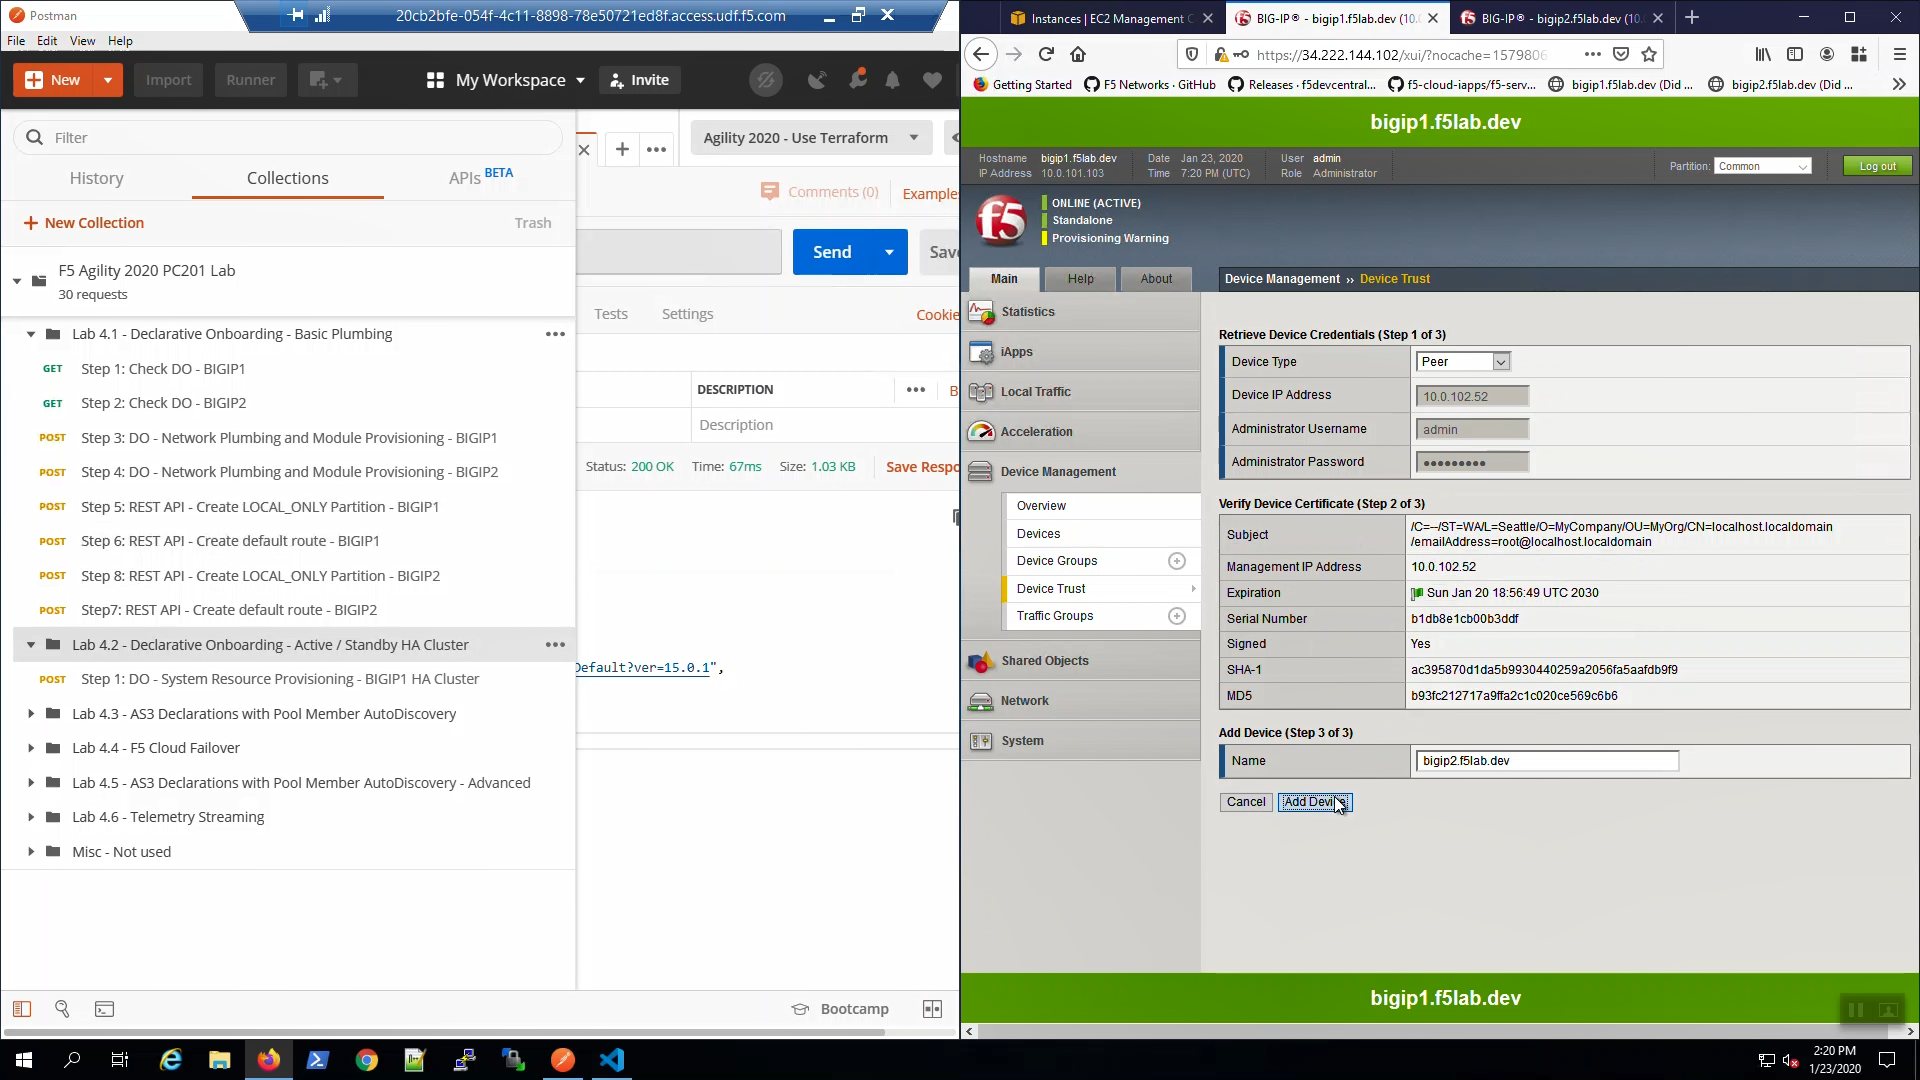
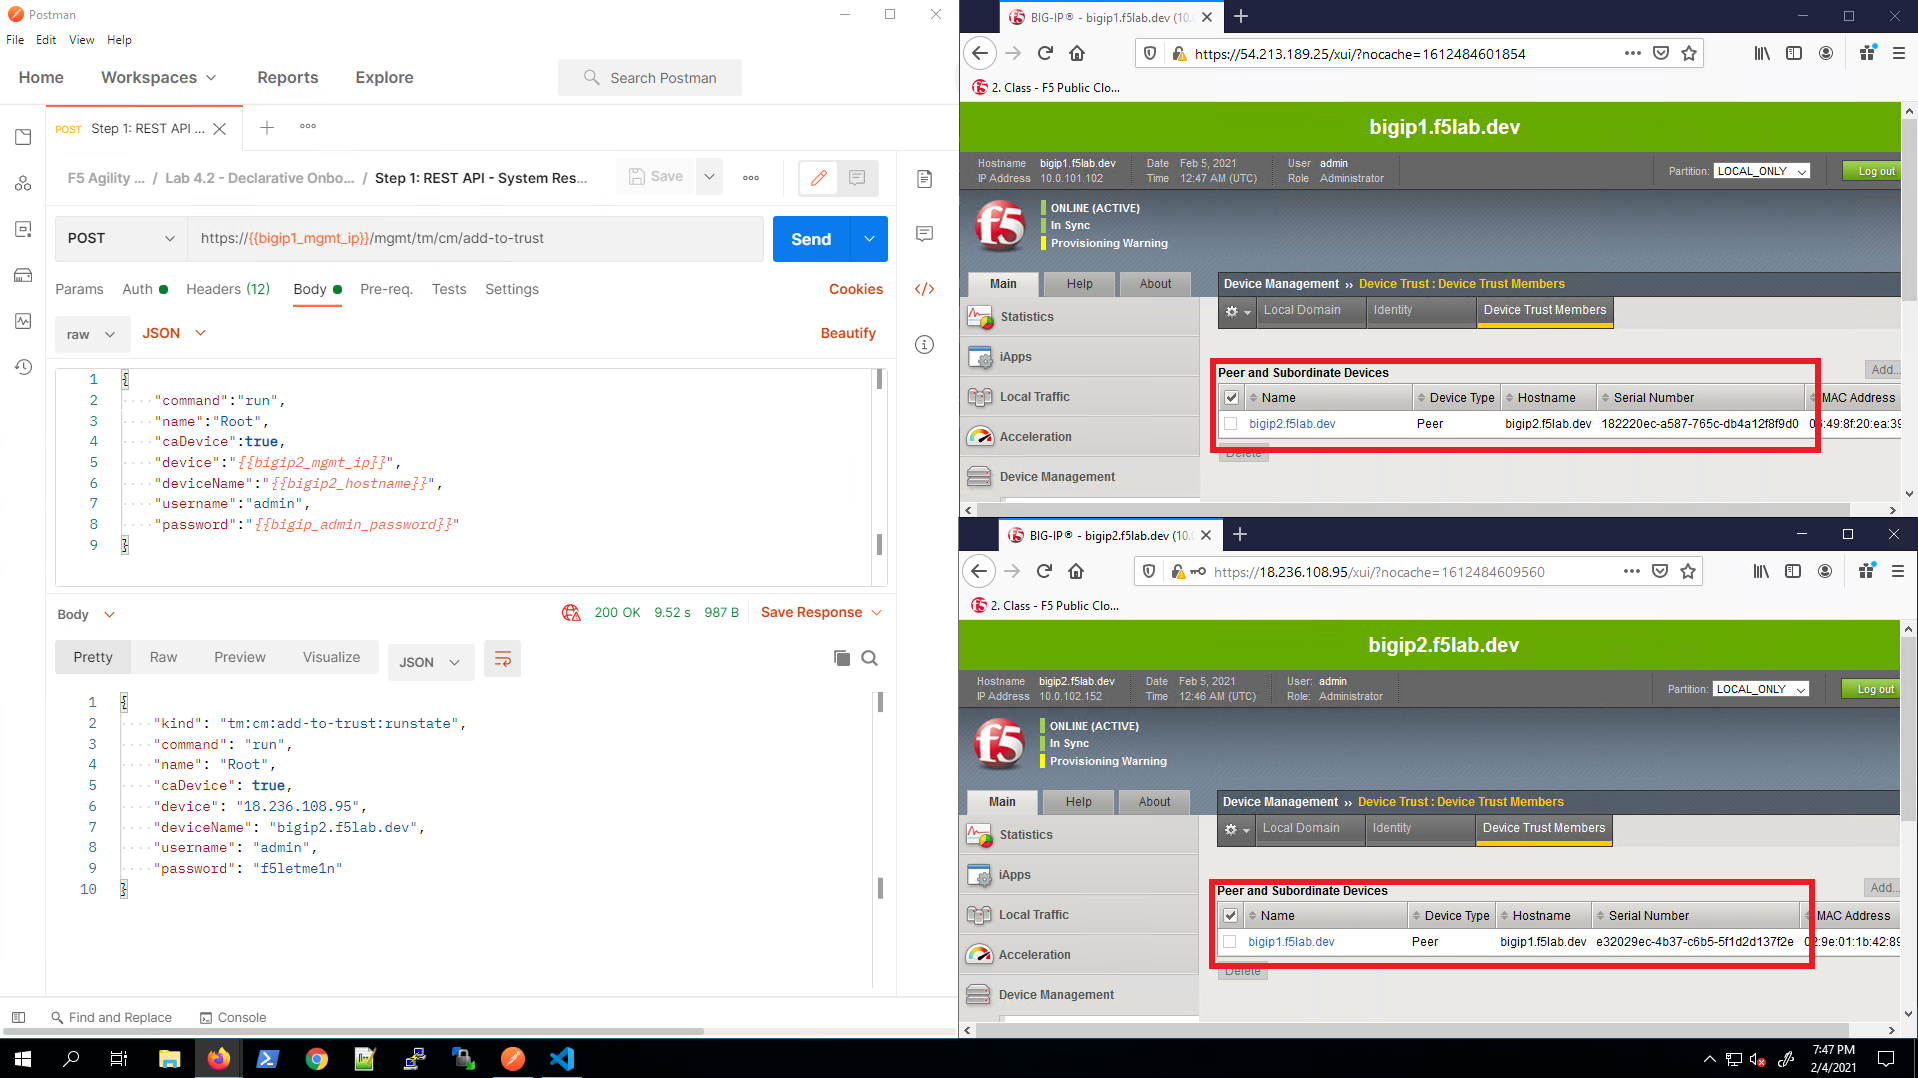
doc updates

diff --git a/docs/class10/module05/lab1.rst b/docs/class10/module05/lab1.rst
@@ -1,63 +1,22 @@
 Establish Device Trust between Big-IPs.
 ---------------------------------------
 
-From the Visual Studio Code Terminal, invoke ``terraform output``. Note the ``bigip2_private_mgmt_address`` value. We'll use this value to configure a Device Trust between Big-IP1 and Big-IP2.
-
-.. code-block:: bash
-
-   terraform output
-   terraform output bigip2_private_mgmt_address
-
-.. image:: ./images/1_terraform_output_bigip2_private_mgmt_address.png
-	   :scale: 50%
-
-.. attention::
-
-  Make sure you are in the /Common partition before proceeding.
-
-From the Big-IP1 Configuration Utility (WebUI), "Device Management" => "Device Trust" => "Device Trust Members" => [Add...].
-
-+------------------------------+----------------------------------------------------------------------+
-| Parameter                    | Value                                                                |
-+==============================+======================================================================+
-| Device Type                  | Peer                                                                 |
-+------------------------------+----------------------------------------------------------------------+
-| Device IP Address            | IP address value of ``terraform output bigip2_private_mgmt_address`` |
-+------------------------------+----------------------------------------------------------------------+
-| Administrator Username       | admin                                                                |
-+------------------------------+----------------------------------------------------------------------+
-| Administrator Password       | f5letme1n                                                            |
-+------------------------------+----------------------------------------------------------------------+
-
-...[Retrieve Device Information].
+From Postman, "Lab 4.1 - Declarative Onboarding - Active / Standby HA Cluster" => "Step 1: REST API - System Resource Provisioning - BIGIP1 Device Trust" => [Send]
 
 .. image:: ./images/2_bigip1_device_trust1.png
 	   :scale: 50%
 
-... [Device Certificate Matches].
+Once the task completes, the Device trust between BIG-IP1 and BIG-IP2 should be establised and the two should be peers. 
 
-.. image:: ./images/11_device_certificate_matches.png
-	   :scale: 50%
+Confirm this by going to the Configuration Utility (WebUI) on each BIG-IP device and navigate to "Device Management" => "Device Trust" => Under the "Device Trust Members" tab => Confirm that the peer BIG-IP is listed under "Peer and Subordinate Devices".
 
-[Add Device]
-
-.. image:: ./images/3_bigip1_device_trust2.png
-	   :scale: 50%
-
-Confirm that ``bigip2.f5lab.dev`` is listed under "Peer and Subordinate Devices".
-
-.. image:: ./images/4_bigip1_device_trust3.png
-	   :scale: 50%
-
-From the Big-IP2 Configuration Utility (WebUI), "Device Management" => "Device Trust" => Under the "Device Trust Members" tab => Confirm that ``bigip1.f5lab.dev`` is listed under "Peer and Subordinate Devices".
-
-.. image:: ./images/5_bigip2_device_trust.png
+.. image:: ./images/2_bigip1_device_trust1.png
 	   :scale: 50%
 
 Create a Config Sync Group between Big-IPs
 ------------------------------------------
 
-From Postman => "Lab - Declarative Onboarding - Active / Standby HA Cluster" => "Step 1: DO - System Resource Provisioning - BIGIP1 HA Cluster" => [Send].
+From Postman => "Lab 4.1 - Declarative Onboarding - Active / Standby HA Cluster" => "Step 2: DO - System Resource Provisioning - BIGIP1 HA Cluster" => [Send].
 
 .. image:: ./images/6_postman_ha_cluster_202.png
 	   :scale: 50%
